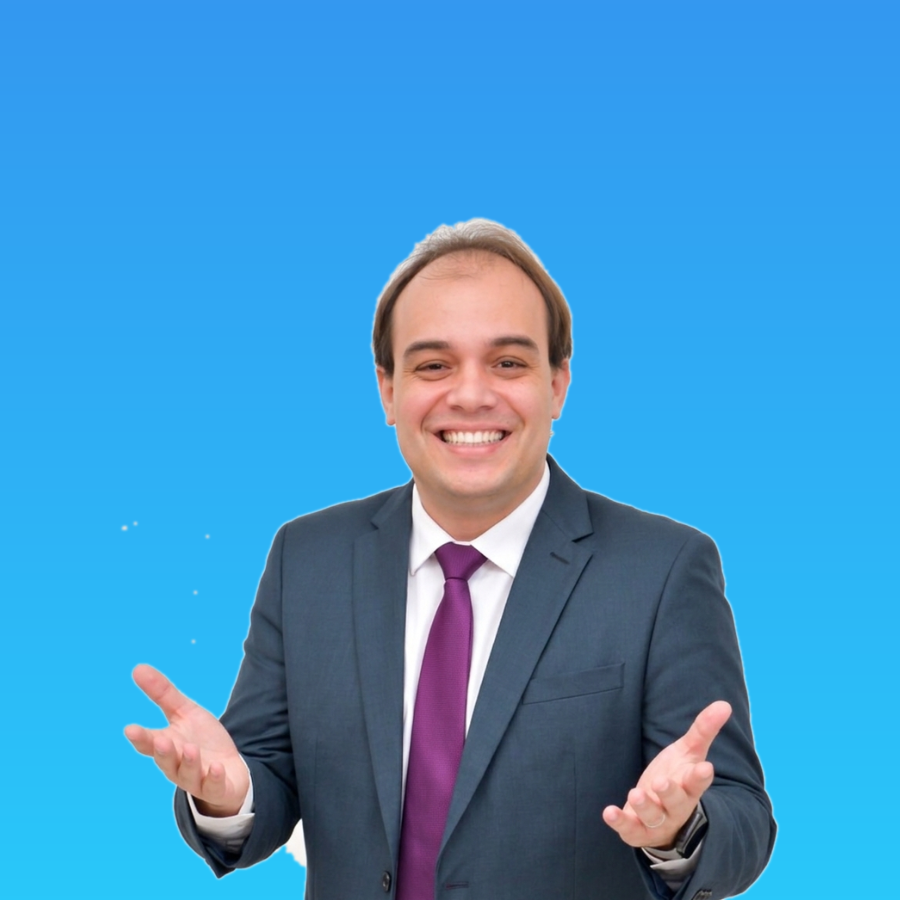
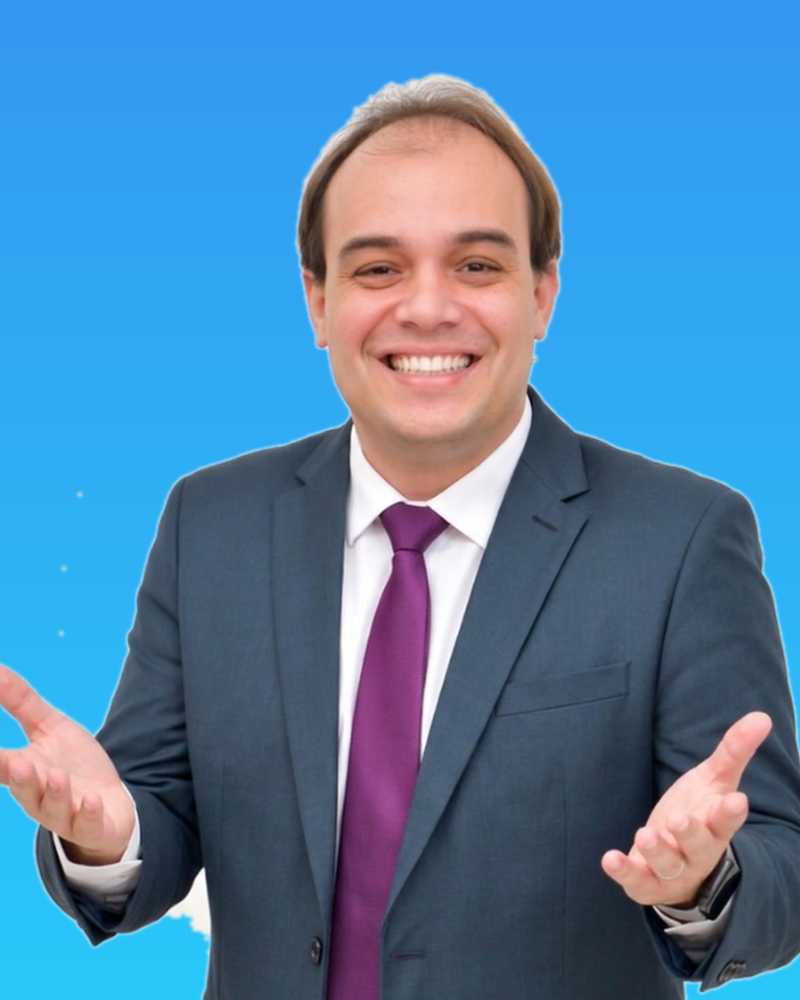
Add files via upload

diff --git a/styles.css b/styles.css
@@ -497,8 +497,20 @@ footer {
 .social a:hover { transform: translateY(-2px); filter: brightness(1.08); }
 
 /* ---------- Foto do Júnior ---------- */
-.canal-banner { overflow: visible; }
-.banner-foto { height: 240px; width: auto; margin: -50px 8px -40px 0; filter: drop-shadow(0 10px 24px rgba(20, 60, 120, 0.25)); }
+.canal-banner { position: relative; overflow: hidden; padding-right: 300px; min-height: 230px; }
+.banner-foto {
+  position: absolute;
+  right: 36px;
+  bottom: 0;
+  height: 90%;
+  max-height: 280px;
+  width: auto;
+  filter: drop-shadow(0 8px 20px rgba(20, 60, 120, 0.22));
+}
 .foto-sobre { float: right; width: 300px; max-width: 45%; margin: 0 0 16px 24px; border-radius: 14px; border: 1px solid var(--border); }
 .autor-foto { width: 30px; height: 30px; border-radius: 50%; border: 2px solid #fff; box-shadow: 0 1px 4px rgba(0,0,0,0.15); }
-@media (max-width: 700px) { .banner-foto { height: 180px; margin: -30px auto -30px; } .foto-sobre { float: none; width: 100%; max-width: 100%; margin: 0 0 18px; } }
+@media (max-width: 760px) {
+  .canal-banner { padding-right: 32px; padding-bottom: 0; }
+  .banner-foto { position: static; display: block; height: auto; max-height: 220px; margin: 10px auto -1px; filter: none; }
+  .foto-sobre { float: none; width: 100%; max-width: 100%; margin: 0 0 18px; }
+}

diff --git a/index.html b/index.html
@@ -123,12 +123,10 @@
 
     <section class="container">
       <div class="canal-banner">
-        <img src="img/junior-redes.png" alt="Júnior Arrais" class="banner-foto">
         <div>
           <h2>Me acompanhe nas redes sociais</h2>
           <p>Siga o Portal Júnior Arrais para receber notícias e vídeos novos todos os dias.</p>
-        </div>
-        <div class="social">
+          <div class="social">
           <a href="https://www.youtube.com/@juniorarrais.advogado" target="_blank" rel="noopener" title="YouTube" class="s-yt"><svg viewBox="0 0 24 24" fill="none"><rect x="2" y="5.5" width="20" height="13" rx="3.5" fill="#FF0000"/><path d="M10 9l5.2 3L10 15z" fill="#fff"/></svg></a>
           <a href="https://www.instagram.com/juniorarraisadvogado/" target="_blank" rel="noopener" title="Instagram" class="s-ig"><svg viewBox="0 0 24 24" fill="none"><rect x="3" y="3" width="18" height="18" rx="5" stroke="#fff" stroke-width="2"/><circle cx="12" cy="12" r="4.2" stroke="#fff" stroke-width="2"/><circle cx="17.2" cy="6.8" r="1.3" fill="#fff"/></svg></a>
           <a href="https://www.tiktok.com/@juniorarrais.advogado" target="_blank" rel="noopener" title="TikTok" class="s-tt"><svg viewBox="0 0 24 24" fill="#fff"><path d="M14.5 3h2.6c.2 1.2.8 2.3 1.7 3.1.8.7 1.8 1.2 2.9 1.3v2.8c-1.7-.1-3.3-.7-4.6-1.7v6.6c0 3.3-2.7 6-6 6s-6-2.7-6-6 2.7-6 6-6c.3 0 .6 0 .9.1v2.9c-.3-.1-.6-.2-.9-.2-1.7 0-3.1 1.4-3.1 3.2s1.4 3.2 3.1 3.2 3.4-1.4 3.4-3.2V3z"/></svg></a>
@@ -136,6 +134,8 @@
           <a href="https://www.facebook.com/advogadojuniorarrais/" target="_blank" rel="noopener" title="Facebook" class="s-fb"><svg viewBox="0 0 24 24" fill="#fff"><path d="M13.4 20.8v-6.9h2.3l.4-2.7h-2.7V9.4c0-.8.2-1.3 1.3-1.3h1.5V5.7c-.3 0-1.1-.1-2.1-.1-2.1 0-3.5 1.3-3.5 3.6v2h-2.4v2.7h2.4v6.9z"/></svg></a>
           <a href="https://www.threads.com/@juniorarraisadvogado" target="_blank" rel="noopener" title="Threads" class="s-th"><svg viewBox="0 0 24 24" fill="none" stroke="#fff" stroke-width="1.8"><path d="M12 21c-4.5 0-7.6-3.4-7.6-9S7.5 3 12 3c3.6 0 6.3 2 7.1 5.2M12.1 13.5c-1.9.1-3.3.9-3.3 2.3 0 1.4 1.3 2.2 2.8 2.1 2-.1 3.4-1.5 3.4-4.3 0-.5 0-.9-.1-1.3-.5-2.2-2-3.2-3.6-3.2-1.2 0-2.3.5-3 1.4" fill="none"/><path d="M14.9 12.3c1.9.5 3.2 1.6 3.2 3.4 0 2.3-1.9 4-4.1 4.3" fill="none" stroke-width="1.6"/></svg></a>
         </div>
+        </div>
+        <img src="img/junior-redes.png" alt="Júnior Arrais" class="banner-foto">
       </div>
     </section>
   </main>